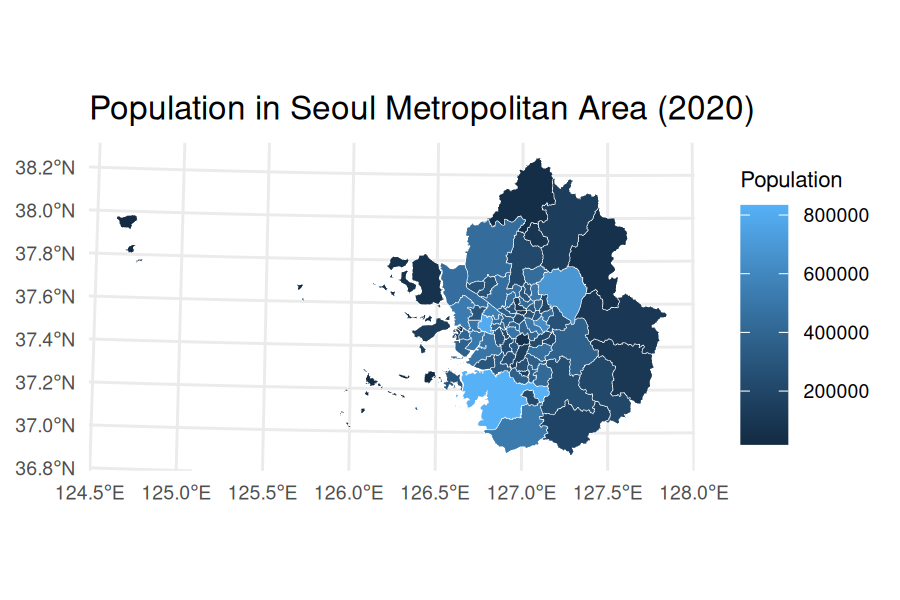
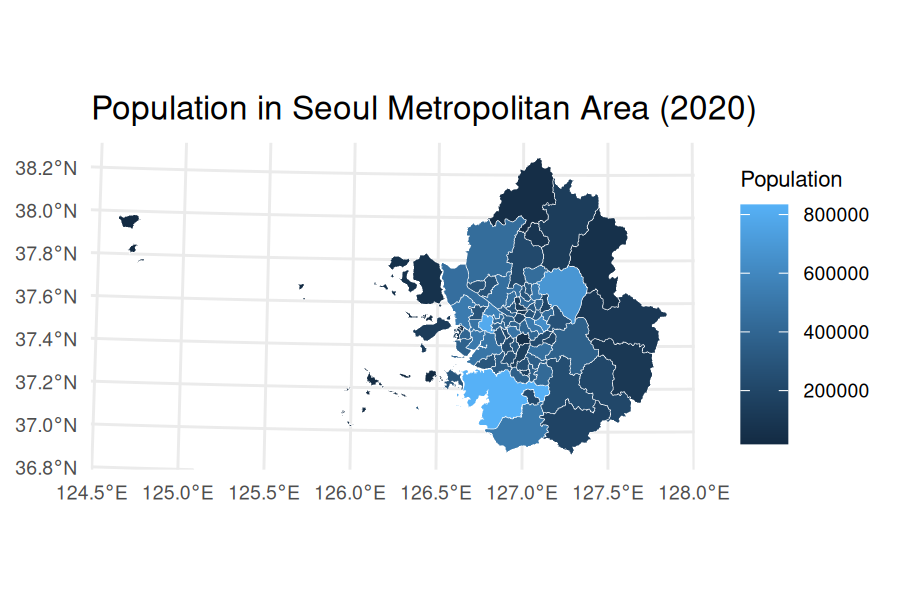
0.2.6 patch - Fix issue with tidycensuskr.sf reference - Added tables in vignettes - Breaking: lookup_district_code.csv: renamed columns sigungu_doj, sigungu_dcee to sgg_doj and sgg_dcee, respectively - TODO: add adm2_mois and nhis codes to the lookup table - 0.2.7 target: 100K+ rows in censuskor

diff --git a/README.md b/README.md
@@ -6,30 +6,27 @@ South Korean census and administrative boundary data. It aims to provide
 an easy-to-use interface for population, housing, and socioeconomic
 statistics linked with geospatial boundaries.
 
-<a href='https://sigmafelix.github.io/tidycensuskr/'><img src='man/figures/gat.jpg' align="center" width="200" /></a>
+<a href='https://sigmafelix.github.io/tidycensuskr/'><img src='man/figures/seoul_ai.jpeg' align="center"  /></a>
 
 # Installation
 
 You can install the released version of `tidycensuskr` from CRAN with:
 
 ``` r
-# CRAN 
+# CRAN
 install.packages("tidycensuskr")
+
+# R-universe
+install.packages("tidycensuskr", repos = "https://sigmafelix.r-universe.dev")
 ```
 
-To install the development version, you will need a GitHub account and
-generate a personal access token with `repo` permissions.
+To install the development version, `remotes::install_github()` will
+suffice.
 
 ``` r
 # Development version from GitHub
 rlang::check_installed("remotes")
-remotes::install_github("sigmafelix/tidycensuskr", auth_token = "__YOUR_GITHUB_TOKEN__")
-```
-
-After cloning the repository, you can also install the package using:
-
-``` r
-devtools::install(quick = TRUE)
+remotes::install_github("sigmafelix/tidycensuskr")
 ```
 
 # About the data
@@ -53,9 +50,9 @@ As of September 2025, this package contains two datasets: Census data
 ``` r
 # loading Seoul population data
 tidycensuskr::anycensus(codes = "Seoul", type = "population")
-#> # A tibble: 25 × 9
+#> # A tibble: 25 × 17
 #>     year adm1  adm1_code adm2          adm2_code type     all households_total…¹
-#>    <int> <chr>     <dbl> <chr>             <dbl> <chr>                     <dbl>
+#>    <dbl> <chr>     <dbl> <chr>             <dbl> <chr>                     <dbl>
 #>  1  2020 Seoul        11 Dobong-gu         11100 populat…                 312878
 #>  2  2020 Seoul        11 Dongdaemun-gu     11060 populat…                 332796
 #>  3  2020 Seoul        11 Dongjak-gu        11200 populat…                 378749
@@ -68,8 +65,11 @@ tidycensuskr::anycensus(codes = "Seoul", type = "population")
 #> 10  2020 Seoul        11 Guro-gu           11170 populat…                 394733
 #> # ℹ 15 more rows
 #> # ℹ abbreviated name: ¹`all households_total_prs`
-#> # ℹ 2 more variables: `all households_male_prs` <dbl>,
-#> #   `all households_female_prs` <dbl>
+#> # ℹ 10 more variables: `all households_male_prs` <dbl>,
+#> #   `all households_female_prs` <dbl>, fertility_total_brt <dbl>,
+#> #   `fertility_15-19 (simulated)_bp1` <dbl>, `fertility_20-24_bp1` <dbl>,
+#> #   `fertility_25-29_bp1` <dbl>, `fertility_30-34_bp1` <dbl>,
+#> #   `fertility_35-39_bp1` <dbl>, `fertility_40-44_bp1` <dbl>, …
 ```
 
 ### `censuskor`
@@ -84,27 +84,15 @@ tidycensuskr::anycensus(codes = "Seoul", type = "population")
 
 - The function `load_district()` allows you to get the *Si-Gun-Gu* level
   `sf` files for the three census years (2010, 2015, 2020).
+- The function requires the `tidycensuskr.sf` package to be installed.
+  Please install it from [R-universe](https://sigmafelix.r-universe.dev)
+  using
+  `install.packages("tidycensuskr.sf", repos = "https://sigmafelix.r-universe.dev")`.
 
 ``` r
-# loading boundary sf file
-tidycensuskr::load_districts(year = 2020)
-#> Simple feature collection with 250 features and 2 fields
-#> Geometry type: GEOMETRY
-#> Dimension:     XY
-#> Bounding box:  xmin: 746111 ymin: 1463977 xmax: 1302469 ymax: 2068441
-#> Projected CRS: KGD2002 / Unified CS
-#> First 10 features:
-#>    year adm2_code                       geometry
-#> 1  2020     21140 POLYGON ((1147104 1689056, ...
-#> 2  2020     21020 POLYGON ((1137763 1683521, ...
-#> 3  2020     21010 POLYGON ((1139121 1678921, ...
-#> 4  2020     21040 POLYGON ((1144618 1676795, ...
-#> 5  2020     21070 POLYGON ((1142639 1682655, ...
-#> 6  2020     21130 POLYGON ((1147030 1688822, ...
-#> 7  2020     21050 POLYGON ((1138992 1683338, ...
-#> 8  2020     21030 POLYGON ((1142527 1684031, ...
-#> 9  2020     21150 POLYGON ((1135430 1690583, ...
-#> 10 2020     21100 MULTIPOLYGON (((1132627 167...
+# loading boundary sf file: 2020 boundaries are included in this package
+data(adm2_sf_2020)
+# tidycensuskr.sf::load_districts(year = 2020)
 ```
 
 # Examples
@@ -121,7 +109,9 @@ population data.
 
 ``` r
 library(tidycensuskr)
-#> tidycensuskr 0.1.2 (2025-09-23)
+#> tidycensuskr 0.2.6 (2025-12-09)
+#> Please install the companion data package tidycensuskr.sf to use the district boundaries.
+#> install.packages('tidycensuskr.sf', repos = 'https://sigmafelix.r-universe.dev')
 library(ggplot2)
 library(dplyr)
 #> 
@@ -134,7 +124,7 @@ library(dplyr)
 #>     intersect, setdiff, setequal, union
 library(tidyr)
 library(sf)
-#> Linking to GEOS 3.12.2, GDAL 3.11.3, PROJ 9.4.1; sf_use_s2() is TRUE
+#> Linking to GEOS 3.12.2, GDAL 3.11.4, PROJ 9.4.1; sf_use_s2() is TRUE
 library(biscale)
 library(cowplot)
 sf_use_s2(FALSE)
@@ -148,7 +138,8 @@ census_pop_2020 <- census_pop_2020 |>
   rename(population_total = `all households_total_prs`)
 
 # load boundaries
-adm2_2020 <- load_districts(year = 2020)
+data(adm2_sf_2020)
+adm2_2020 <- adm2_sf_2020
 
 # merge boundaries and census data
 census_2020_sf <- adm2_2020 |>
@@ -163,7 +154,12 @@ census_2020_pop <-
     title = "Population (2020)",
     fill = "Population"
   ) +
-  theme(plot.title = element_text(size = 12))
+  theme(
+    plot.title = element_text(size = 12),
+    axis.text = element_text(size = 7),
+    legend.text = element_text(size = 7),
+    legend.title = element_text(size = 8)
+  )
 
 census_2020_pop
 ```
@@ -196,9 +192,88 @@ census_2020_pop_sma <-
     title = "Population in Seoul Metropolitan Area (2020)",
     fill = "Population"
   ) +
-  theme(plot.title = element_text(size = 12))
+  theme(
+    plot.title = element_text(size = 12),
+    axis.text = element_text(size = 7),
+    legend.text = element_text(size = 7),
+    legend.title = element_text(size = 8)
+  )
 
 census_2020_pop_sma
 ```
 
 <img src="man/figures/README-seoul_map-1.png" width="100%" />
+
+## Bivariate map
+
+Moving on to a complex example, the code below demonstrates to generate
+a bivariate map with persons per housing unit and all-cause mortality
+rate.
+
+``` r
+census_housing_2020 <- anycensus(year = 2020, codes = NULL, type = "housing")
+#> Using character codes that are convertible to integers. Automatically converting to integers...
+census_housing_2020 <- census_housing_2020 |>
+  rename(housing_total_units = `housing types_total_cnt`)
+census_pop_housing_2020 <- census_pop_2020 |>
+  left_join(census_housing_2020 |>
+              select(adm2_code, housing_total_units),
+            by = "adm2_code") |>
+  transmute(
+    adm2_code = adm2_code,
+    persons_per_housing = population_total / housing_total_units
+  )
+census_mort_2020 <- anycensus(year = 2020, codes = NULL, type = "mortality")
+#> Using character codes that are convertible to integers. Automatically converting to integers...
+census_mort_2020 <- census_mort_2020 |>
+  rename(mortality_total = `all causes_total_p1p`)
+
+census_pph_mort_2020 <- census_pop_housing_2020 |>
+  left_join(census_mort_2020 |>
+              select(adm2_code, mortality_total),
+            by = "adm2_code")
+
+# merge boundaries and census data
+census_2020_sf <- adm2_2020 |>
+  left_join(census_pph_mort_2020, by = c("adm2_code" = "adm2_code"))
+census_2020_mapbase <-
+  biscale::bi_class(
+    census_2020_sf,
+    x = persons_per_housing,
+    y = mortality_total,
+    style = "quantile",
+    dim = 3
+  )
+
+# draw a bivariate legend
+legend <- bi_legend(pal = "DkCyan",
+                    dim = 3,
+                    xlab = "More Persons per Housing ",
+                    ylab = "All-Cause Mortality ",
+                    size = 6)
+
+# plot population data
+census_2020_bmap <-
+  ggplot(census_2020_mapbase) +
+  geom_sf(
+    aes(fill = bi_class),
+    color = "white",
+    size = 0.1,
+    show.legend = FALSE
+  ) +
+  bi_scale_fill(pal = "DkCyan", dim = 3) +
+  theme_minimal() +
+  labs(title = "Persons per housing unit and all-cause mortality rate (2020)") +
+  bi_theme(base_size = 10) +
+  theme(plot.title = element_text(size = 10))
+
+# combine map with legend
+census_2020_bimap <- cowplot::ggdraw() +
+  cowplot::draw_plot(census_2020_bmap, 0, 0, 1, 1) +
+  cowplot::draw_plot(legend, 0.7, 0.02, 0.3, 0.3)
+
+
+census_2020_bimap
+```
+
+<img src="man/figures/README-final_map-1.png" width="100%" />
